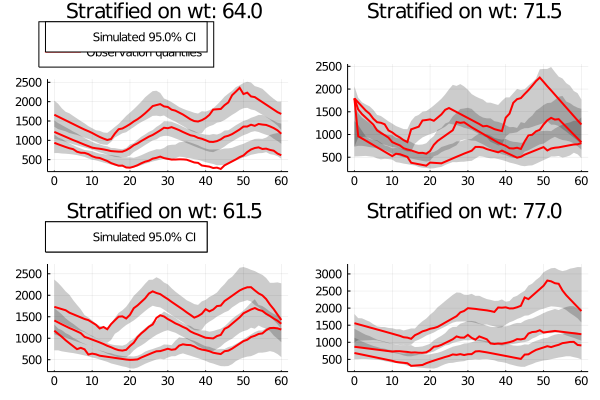
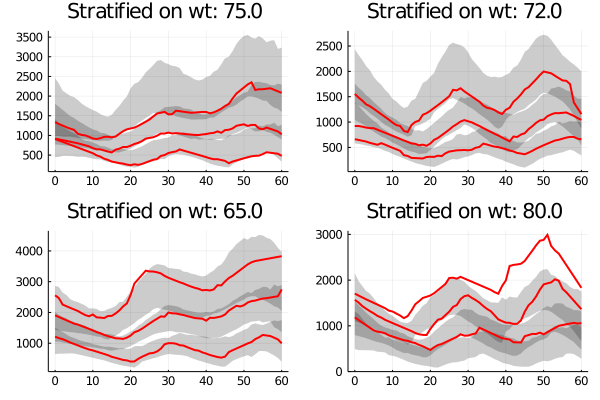
legend false for stratified vpc, savefig addition

diff --git a/docs/src/analysis/vpc.md b/docs/src/analysis/vpc.md
@@ -182,7 +182,7 @@ for VPC of the fitted model, stratified on `wt`.
 
 ```julia
  vpc_fpm_stratwt = vpc(res, 100, stratify_by=[:wt], bandwidth = 5)
- plot(vpc_fpm_stratwt)
+ plot(vpc_fpm_stratwt, legend=false)
 ```
 ![WT VPC](../assets/vpc/vpcstratwt.png)
 
@@ -192,6 +192,12 @@ Let's pass in the time grid with the `sim_idvs` kwarg to `vpc` for the simulatio
  plot(vpc_fpm)
 ```
 ![sim idv](../assets/vpc/simidvs.png)
+
+By specifying the plot and the path the VPC plot can be saved to the disk as below:
+```julia
+ p = plot(vpc_fpm)
+ savefig(p, "simidvsvpc.png")
+```
 
 !!! note
 
